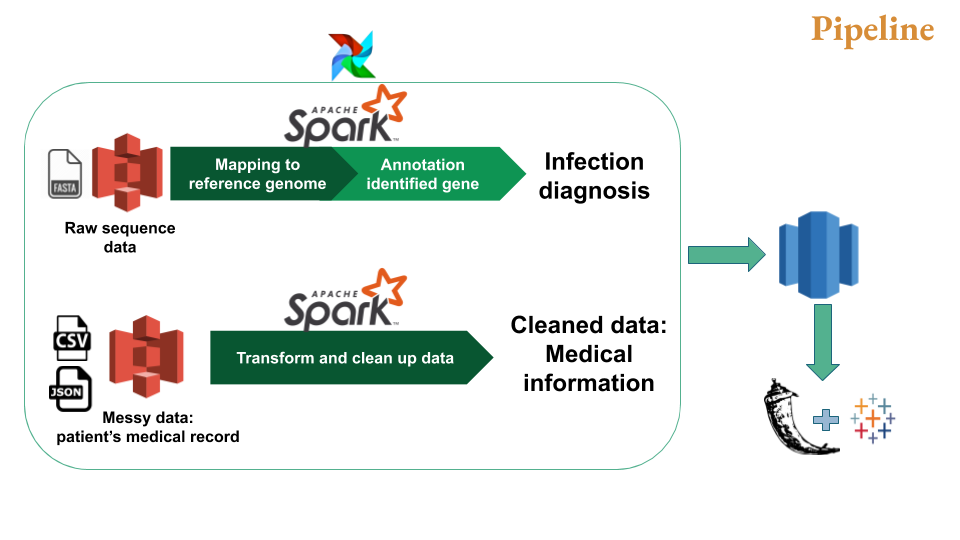
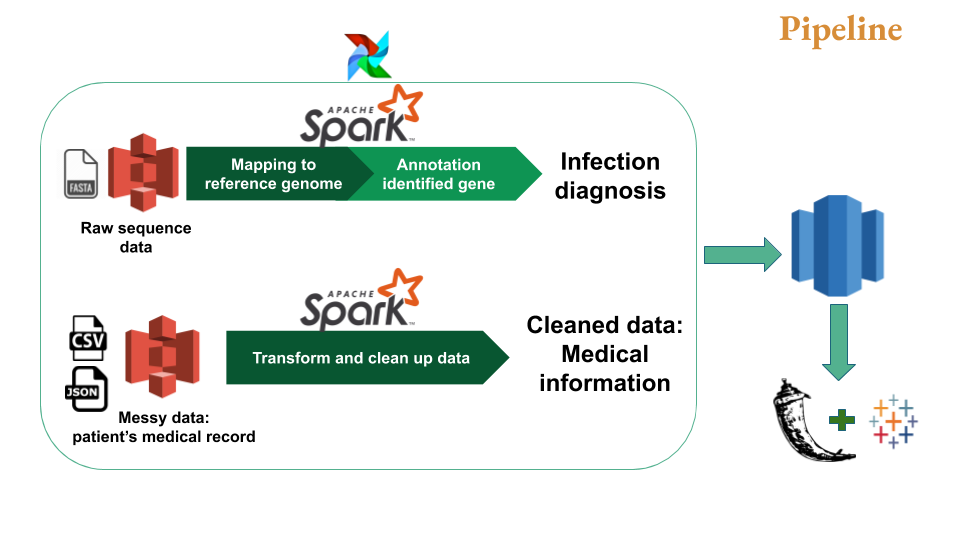
updated readme and pipeline figure

diff --git a/README.md b/README.md
@@ -8,8 +8,9 @@ The aim of this project is to build a cloud based platform to automatic collect,
 
 # Motivation
 Infectious diseases are associated with substantial morbidity, mortality and cost. Manual identification of infections is costly, time-consuming and diverts staff time from prevention activities. Although next-generation DNA sequencing has demonstrated its ability to identify microbial pathogens where traditional diagnostics have otherwise failed, there are several limitations to use it for infection detection in clinical setting: 
-1. The volume of data that is produced from next-generation sequencing platforms is massive. Data analysis is time-consuming and requires sophisticated bioinformatics systems. 
-2. The lack of computational resources for large dataset storage and management limits capability to analyze and clinically interpret the data.
+1. The volume of data that is produced from next-generation sequencing platforms is massive. 
+2. Data analysis is time-consuming and requires sophisticated bioinformatics systems. 
+3. The lack of computational resources for large dataset storage and management limits capability to analyze and clinically interpret the data.
 
 
 # Tools and technologies used 
@@ -20,7 +21,7 @@ Infectious diseases are associated with substantial morbidity, mortality and cos
 5. Flask 
 6. Tableau
 
-Flow of the data pipeline
+Flow of the data
 ------------------------------------
 
 ![Alt text](pipeline.png?raw=true "Optional Title")
@@ -52,7 +53,7 @@ Install and configure [AWS CLI](https://aws.amazon.com/cli/) and [Pegasus](https
 
 #### CLUSTER STRUCTURE:
 
-To reproduce my environment, 11 m4.large AWS EC2 instances are needed:
+To reproduce my environment, 10 m4.large AWS EC2 instances are needed:
 - (4 nodes) Spark Cluster 1 - Batch for DNA sequencing data analysis
 - (4 nodes) Spark Cluster 2 - Batch for medical records data processing
 - Flask Node
@@ -71,8 +72,8 @@ Follow the instruction from [AWS Guide](https://docs.aws.amazon.com/redshift/lat
 Detailed information for creating tables, uploading data, and querying the database in Redshift cluster can not found in 
 
 ##### Install other tools
-Download and install [biopython] (https://biopython.org/wiki/Download) and [sparkhit] (https://rhinempi.github.io/sparkhit/example.html) in all your Spark Cluster nodes for DNA data analysis.
-Download and install [boto3](https://boto3.amazonaws.com/v1/documentation/api/latest/guide/quickstart.html) in all your Spark Cluster nodes.
+Download and install [Biopython] (https://biopython.org/wiki/Download) and [Sparkhit] (https://rhinempi.github.io/sparkhit/example.html) in all your Spark Cluster nodes for DNA data analysis.
+Download and install [Boto3](https://boto3.amazonaws.com/v1/documentation/api/latest/guide/quickstart.html) in all your Spark Cluster nodes.
 
 ##### Configurations
 Configuration settings for Spark tasks and AWS S3 bucket are stored in the respective files in `config/` folder.
